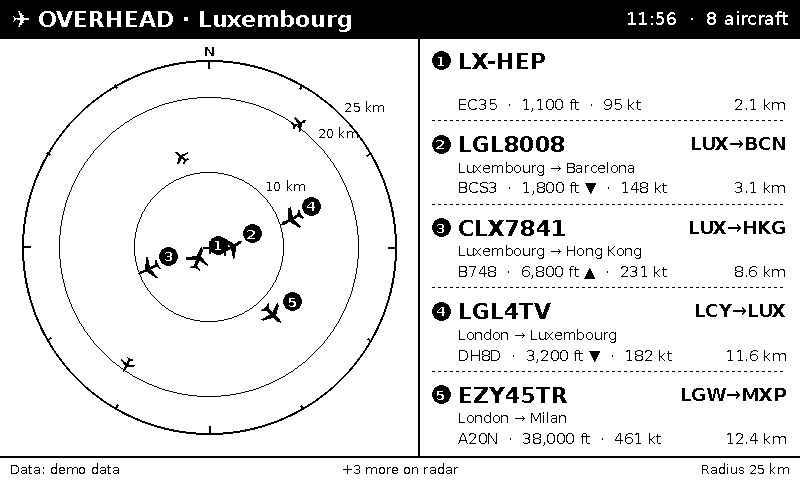
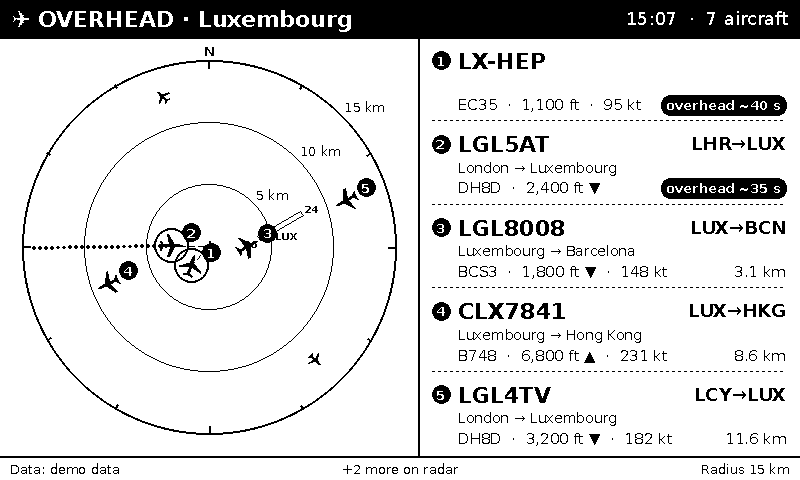
Draw Findel runway on the radar and a dotted trail for the featured plane
- [map] config: runways drawn to scale (default ELLX 06/24, 4000 x 60 m)
  with end labels and airport name
- Fetcher remembers each aircraft's positions for 5 minutes; the featured
  plane (next due overhead, else nearest) gets a dotted trail
- Default radar radius 15 km; README screenshots refreshed

Claude-Session: https://claude.ai/code/session_01LR3tfQzjytwRXw8FAz5y1D

diff --git a/flightradar/render.py b/flightradar/render.py
@@ -20,7 +20,7 @@ from pathlib import Path
 
 from PIL import Image, ImageDraw, ImageFont
 
-from .data import Snapshot
+from .data import Snapshot, bearing_deg, distance_km
 
 BLACK, WHITE = 0, 255
 
@@ -127,6 +127,8 @@ class Renderer:
         self.f_small = _font(13)
         self.f_badge = _font(13, bold=True)
         self.f_city = _font(14)
+        self.f_tiny = _font(10, bold=True)
+        self.featured = None
         # "nearest" mode
         self.f_big_call = _font(38, bold=True)
         self.f_big_code = _font(34, bold=True)
@@ -134,12 +136,12 @@ class Renderer:
         self.f_value = _font(20, bold=True)
 
     def render(self, snap: Snapshot, width: int, height: int) -> Image.Image:
-        if self.mode == "nearest":
-            # feature the plane that's about to pass overhead, else the nearest
-            soon = sorted((a for a in snap.aircraft if _soon(a)), key=lambda a: a.overhead_in)
-            if soon and soon[0] is not snap.aircraft[0]:
-                rest = [a for a in snap.aircraft if a is not soon[0]]
-                snap = dataclasses.replace(snap, aircraft=[soon[0]] + rest)
+        # The featured plane: the next to pass overhead, else the nearest.
+        soon = sorted((a for a in snap.aircraft if _soon(a)), key=lambda a: a.overhead_in)
+        self.featured = soon[0] if soon else (snap.aircraft[0] if snap.aircraft else None)
+        if self.mode == "nearest" and soon and soon[0] is not snap.aircraft[0]:
+            rest = [a for a in snap.aircraft if a is not soon[0]]
+            snap = dataclasses.replace(snap, aircraft=[soon[0]] + rest)
         img = Image.new("1", (width, height), WHITE)
         d = ImageDraw.Draw(img)
         header_h, footer_h = 38, 24
@@ -188,6 +190,29 @@ class Renderer:
             d.line([cx + inner * math.sin(a), cy - inner * math.cos(a),
                     cx + r_px * math.sin(a), cy - r_px * math.cos(a)], fill=BLACK, width=2)
         d.text((cx, cy - r_px - 4), "N", font=self.f_badge, fill=BLACK, anchor="mb")
+        # map: runways under everything else
+        loc = self.cfg["location"]
+
+        def to_px(lat, lon):
+            dist = distance_km(loc["latitude"], loc["longitude"], lat, lon)
+            b = math.radians(bearing_deg(loc["latitude"], loc["longitude"], lat, lon))
+            rr = dist / radius_km * r_px
+            return cx + rr * math.sin(b), cy - rr * math.cos(b), dist
+
+        for rw in self.cfg.get("map", {}).get("runways", []):
+            self._runway(d, rw, to_px, radius_km, r_px)
+
+        # featured plane's trail: dotted line through its recent positions
+        f = self.featured
+        if f is not None and self.cfg.get("map", {}).get("trail", True) and f.trail:
+            pts = [to_px(f.lat, f.lon)] + [to_px(lat, lon) for lat, lon in reversed(f.trail)]
+            path = []
+            for x, y, dist in pts:
+                if dist > radius_km:
+                    break
+                path.append((x, y))
+            self._dotted(d, path)
+
         # home marker
         d.line([cx - 6, cy, cx + 6, cy], fill=BLACK, width=2)
         d.line([cx, cy - 6, cx, cy + 6], fill=BLACK, width=2)
@@ -212,6 +237,42 @@ class Renderer:
                 self._dashed(d, px, py, cx, cy)
             if numbered:
                 self._badge(d, px + size + 9, py - size - 2, idx + 1)
+
+    def _runway(self, d, rw, to_px, radius_km, r_px):
+        (lat1, lon1), (lat2, lon2) = rw["ends"]
+        x1, y1, d1 = to_px(lat1, lon1)
+        x2, y2, d2 = to_px(lat2, lon2)
+        if min(d1, d2) > radius_km:
+            return
+        length = math.hypot(x2 - x1, y2 - y1) or 1
+        ux, uy = (x2 - x1) / length, (y2 - y1) / length     # along the runway
+        half = max(2.5, rw.get("width_m", 60) / 1000 / radius_km * r_px / 2)
+        px, py = -uy * half, ux * half                       # across the runway
+        d.polygon([(x1 + px, y1 + py), (x2 + px, y2 + py), (x2 - px, y2 - py), (x1 - px, y1 - py)],
+                  fill=WHITE, outline=BLACK)
+        labels = rw.get("labels") or []
+        for (x, y, sgn), lab in zip(((x1, y1, -1), (x2, y2, 1)), labels):
+            d.text((x + ux * sgn * 10, y + uy * sgn * 10), lab, font=self.f_tiny, fill=BLACK, anchor="mm")
+        if rw.get("name"):
+            mx, my = (x1 + x2) / 2, (y1 + y2) / 2
+            nx, ny = (px, py) if py > 0 else (-px, -py)      # put the name below the runway
+            norm = math.hypot(nx, ny) or 1
+            d.text((mx + nx / norm * 11, my + ny / norm * 11), rw["name"], font=self.f_tiny,
+                   fill=BLACK, anchor="mm")
+
+    @staticmethod
+    def _dotted(d, path, spacing=6, r=1.4):
+        """Small dots every `spacing` pixels along a polyline."""
+        carry = 0.0
+        for (x0, y0), (x1, y1) in zip(path, path[1:]):
+            seg = math.hypot(x1 - x0, y1 - y0)
+            pos = carry
+            while pos < seg:
+                t = pos / seg
+                x, y = x0 + (x1 - x0) * t, y0 + (y1 - y0) * t
+                d.ellipse([x - r, y - r, x + r, y + r], fill=BLACK)
+                pos += spacing
+            carry = pos - seg
 
     @staticmethod
     def _dashed(d, x0, y0, x1, y1, dash=5, gap=4):

diff --git a/flightradar/data.py b/flightradar/data.py
@@ -20,7 +20,8 @@ import json
 import logging
 import math
 import time
-from dataclasses import dataclass
+from collections import deque
+from dataclasses import dataclass, field
 from pathlib import Path
 
 import requests
@@ -38,6 +39,8 @@ SOURCES = {
 
 ROUTE_URL = "https://api.adsbdb.com/v0/callsign/{callsign}"
 USER_AGENT = "pi-eink-flightradar/0.1 (hobby project)"
+
+TRAIL_SECONDS = 300        # how much of each plane's recent path to remember
 
 EMERGENCY_SQUAWKS = {"7500": "HIJACK", "7600": "RADIO FAIL", "7700": "EMERGENCY"}
 
@@ -78,6 +81,7 @@ class Aircraft:
     route: Route | None = None
     cpa_km: float | None = None        # closest it will come to you on its current path
     overhead_in: float | None = None   # seconds until it passes over you, if it will
+    trail: list = field(default_factory=list)   # recent positions [(lat, lon), ...], oldest first
 
     @property
     def label(self) -> str:
@@ -212,6 +216,7 @@ class FlightFetcher:
         self.session = requests.Session()
         self.session.headers["User-Agent"] = USER_AGENT
         self._route_cache: dict[str, tuple[Route | None, float]] = {}
+        self._history: dict[str, deque] = {}   # hex -> deque[(time, lat, lon)]
 
     def fetch(self) -> Snapshot:
         loc = self.cfg["location"]
@@ -237,6 +242,7 @@ class FlightFetcher:
                 continue
             raw_list = payload.get("ac") or payload.get("aircraft") or []
             aircraft = [a for a in (parse_aircraft(r, lat, lon) for r in raw_list) if a]
+            self._add_trails(aircraft)
             aircraft = filter_and_sort(aircraft, self.cfg)
             if self.cfg["data"]["lookup_routes"]:
                 n = 1 if self.cfg["display"]["mode"] == "nearest" else self.cfg["display"]["max_list"]
@@ -244,6 +250,20 @@ class FlightFetcher:
             log.info("Got %d aircraft from %s", len(aircraft), name)
             return Snapshot(aircraft, name, time.time())
         return Snapshot([], "", time.time(), error="; ".join(errors) or "no sources")
+
+    def _add_trails(self, aircraft: list[Aircraft]) -> None:
+        """Remember each plane's recent positions so we can draw its trail."""
+        now = time.time()
+        for ac in aircraft:
+            if not ac.hex:
+                continue
+            hist = self._history.setdefault(ac.hex, deque(maxlen=120))
+            hist.append((now, ac.lat, ac.lon))
+            while hist and now - hist[0][0] > TRAIL_SECONDS:
+                hist.popleft()
+            ac.trail = [(lat, lon) for _, lat, lon in list(hist)[:-1]]
+        for h in [h for h, d in self._history.items() if not d or now - d[-1][0] > 2 * TRAIL_SECONDS]:
+            del self._history[h]
 
     # Route lookup: callsign -> origin/destination airports + cities. Cached, because routes rarely change
     # and we only want to make a handful of extra requests per refresh.
@@ -306,6 +326,16 @@ class DemoFetcher:
             )
             if a
         ]
+        for ac in aircraft:   # fake trail: where it would have been, every 20 s
+            if ac.speed_kt and ac.track is not None and not ac.on_ground:
+                v = ac.speed_kt * KM_PER_NM / 3600
+                pts = []
+                for t in range(240, 0, -20):
+                    back = v * t
+                    dlat = -back * math.cos(math.radians(ac.track)) / 111.32
+                    dlon = -back * math.sin(math.radians(ac.track)) / (111.32 * math.cos(math.radians(ac.lat)))
+                    pts.append((ac.lat + dlat, ac.lon + dlon))
+                ac.trail = pts
         aircraft = filter_and_sort(aircraft, self.cfg)
         for ac in aircraft:
             r = self.sample.get("routes", {}).get(ac.callsign)

diff --git a/flightradar/config.py b/flightradar/config.py
@@ -8,7 +8,7 @@ from pathlib import Path
 DEFAULTS = {
     "location": {"name": "Home", "latitude": 49.6116, "longitude": 6.1319},
     "filter": {
-        "radius_km": 25,
+        "radius_km": 15,
         "min_altitude_ft": 0,
         "max_altitude_ft": 60000,
         "include_ground": False,
@@ -25,6 +25,13 @@ DEFAULTS = {
         "poll_seconds": 10,
         "min_refresh_gap_seconds": 15,
         "display_delay_seconds": 4,
+    },
+    "map": {
+        "runways": [
+            {"name": "LUX", "ends": [[49.617669, 6.187456], [49.635528, 6.235556]],
+             "labels": ["06", "24"], "width_m": 60},
+        ],
+        "trail": True,
     },
     "display": {
         "driver": "preview",

diff --git a/README.md b/README.md
@@ -87,6 +87,7 @@ Everything lives in [`config.toml`](config.toml). The settings you're most likel
 - **`radius_km`**: how far around you to look. 15–30 km feels like "overhead"; 50+ km shows more traffic. Near an airport, 10–15 km keeps the radar from getting crowded.
 - **`min_altitude_ft`**: raise it to hide helicopters and light aircraft.
 - **`[overhead]`**: makes the screen match what you hear. The app checks flight data every 10 s and predicts when each plane will pass over you. About 30 s before one arrives (`lead_seconds`), it redraws the screen with an **"overhead ~30 s"** tag, a ring around the plane on the radar, and in `nearest` mode that plane featured. `radius_km` (default 1.5) sets how close its path must come to count as "overhead": raise it if you live beside a flight path, lower it if too many planes trigger. Each early redraw is logged, so `journalctl -u flightradar -f` shows how often it fires.
+- **`[map]`**: draws the Findel runway (06/24) to scale on the radar, and a dotted trail showing the last 5 minutes of the featured plane's path (the next plane due overhead, otherwise the nearest). Add more `[[map.runways]]` blocks for other airports, or set `trail = false` to hide the trail.
 - **`refresh_seconds`**: how often the screen redraws (default 45, minimum 30). A cruising jet covers about 14 km a minute, so 30–60 s keeps the radar close to reality. Each redraw makes the e-ink flash briefly; raise it if that bothers you.
 - **`model`**: the Waveshare driver name. Some common ones:
 
